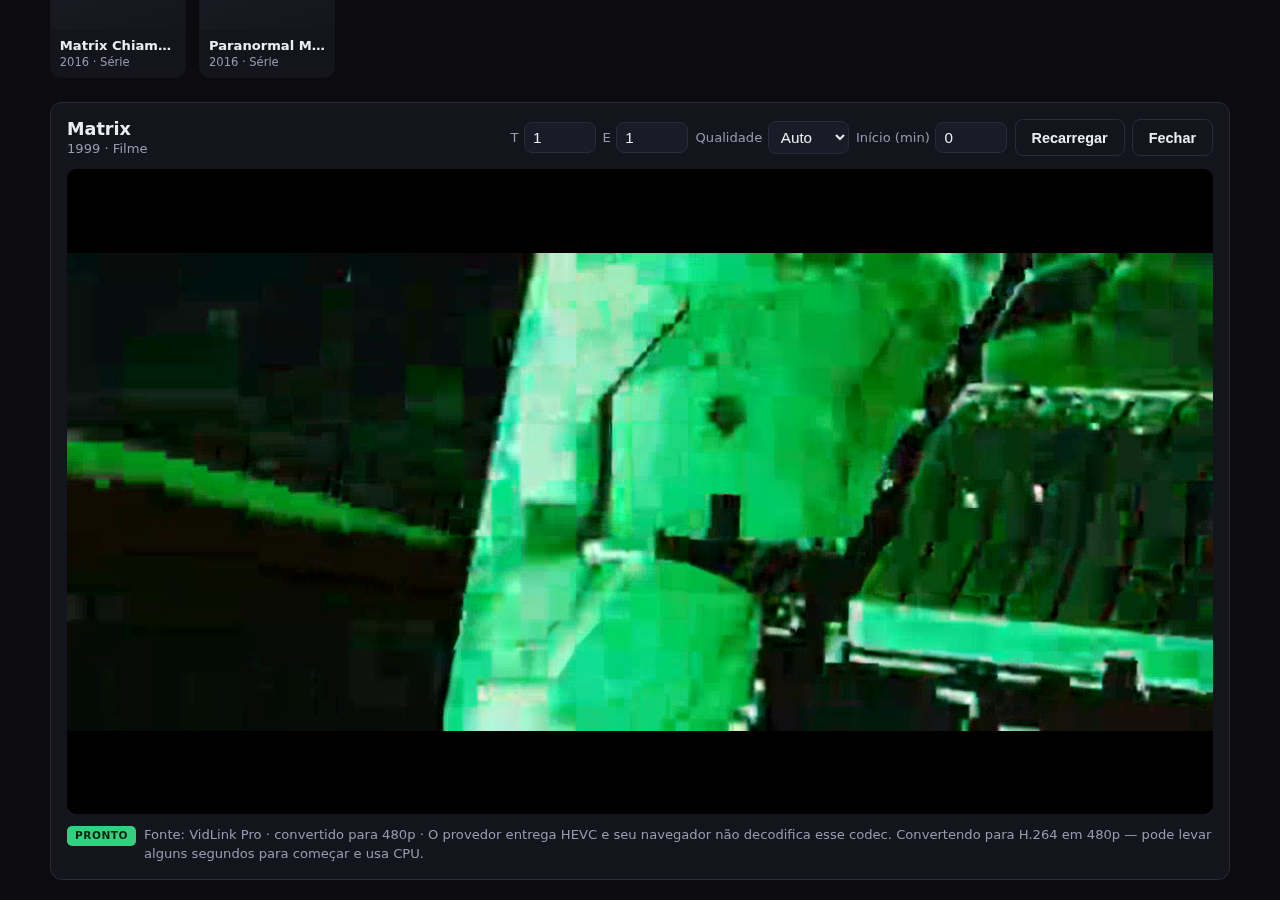
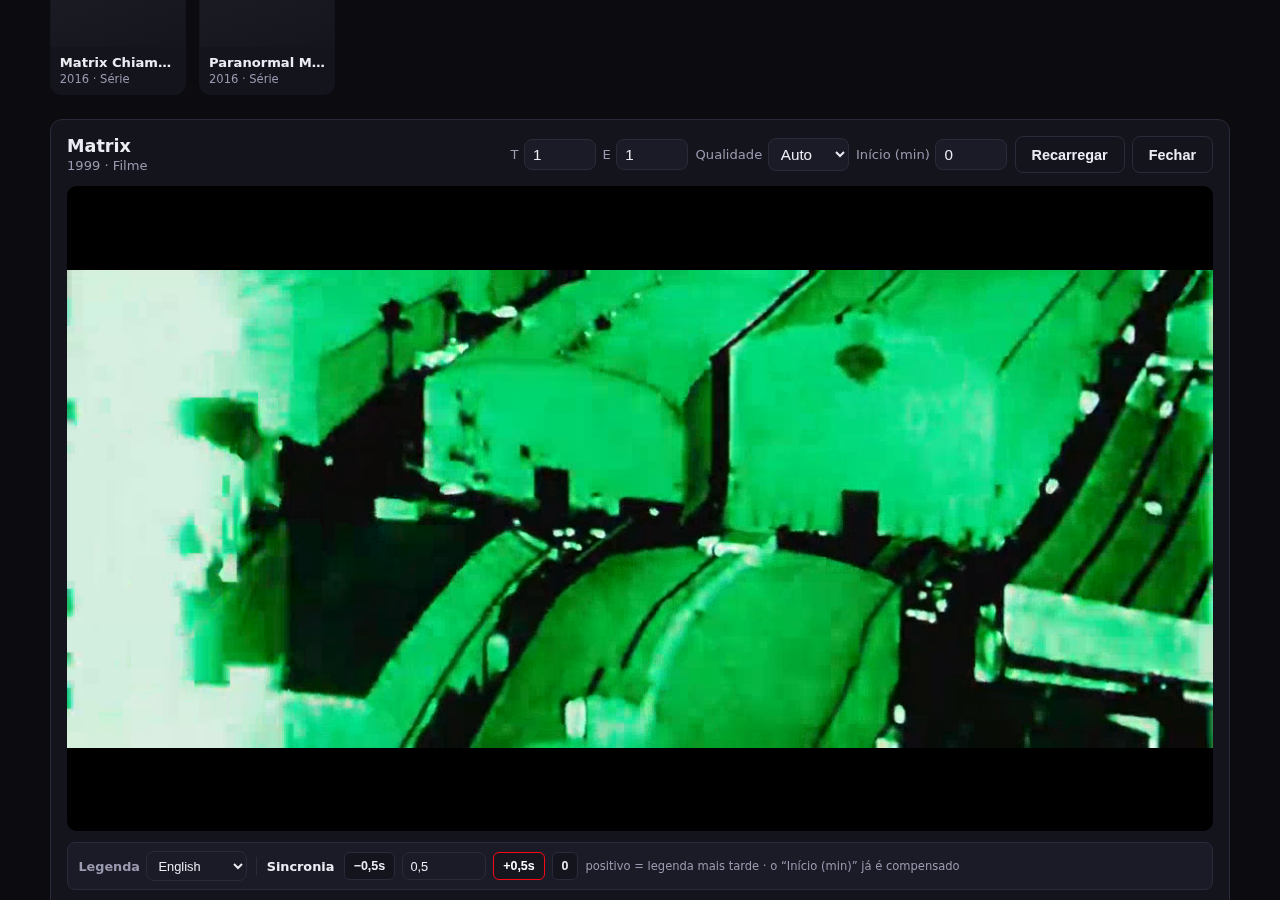
Adiciona suporte a seleção de idioma de legendas e melhorias na sincronia

diff --git a/public/index.html b/public/index.html
@@ -138,6 +138,9 @@
   }
   .sub-bar[hidden]{display:none}
   .sub-bar .sub-title{font-weight:700;color:var(--text);margin-right:.15rem}
+  .sub-bar .sub-lang{display:flex;align-items:center;gap:.35rem;color:var(--muted);font-weight:600}
+  .sub-bar .sub-lang select{padding:.35rem .5rem;font-size:.8rem;max-width:190px}
+  .sub-divider{width:1px;height:18px;background:var(--line);margin:0 .15rem}
   .sub-bar input[type="number"]{width:84px;padding:.35rem .45rem;font-size:.8rem}
   .step-btn{
     background:var(--panel);border:1px solid var(--line);color:var(--text);
@@ -210,7 +213,11 @@
     </div>
 
     <div id="subBar" class="sub-bar" hidden>
-      <span class="sub-title">Sincronia da legenda</span>
+      <label class="sub-lang">Legenda
+        <select id="subLangSelect" aria-label="Idioma da legenda"></select>
+      </label>
+      <span class="sub-divider"></span>
+      <span class="sub-title">Sincronia</span>
       <button id="subMinus" class="step-btn" type="button" title="Adiantar a legenda 0,5 s">−0,5s</button>
       <input id="subOffsetInput" type="number" step="0.5" min="-600" max="600" value="0"
              title="Atraso em segundos (positivo = legenda mais tarde)" aria-label="Atraso da legenda em segundos">
@@ -287,6 +294,9 @@
     pendingSeek: 0,
     subOffset: 0,
     subKey: null,
+    subLang: null,
+    langToken: 0,
+    applyingLang: false,
     captions: []
   };
 
@@ -536,11 +546,11 @@
     try { video.pause(); } catch (err) { /* ignore */ }
     video.removeAttribute('src');
     video.load();
+    state.captions = [];
     Array.prototype.slice.call(video.querySelectorAll('track')).forEach(function (track) {
       track.remove();
     });
     state.pendingSeek = 0;
-    state.captions = [];
     $('subBar').hidden = true;
   }
 
@@ -574,7 +584,21 @@
       'shift=' + encodeURIComponent(String(offset));
   }
 
-  function addCaptions(captions, mode) {
+  function loadSubLang(key) {
+    try {
+      return localStorage.getItem(key + '.lang');
+    } catch (err) {
+      return null;
+    }
+  }
+
+  function saveSubLang(key, value) {
+    try {
+      localStorage.setItem(key + '.lang', value);
+    } catch (err) { /* ignore */ }
+  }
+
+  function addCaptions(captions) {
     var video = $('nativePlayer');
 
     (captions || []).forEach(function (caption) {
@@ -584,38 +608,112 @@
       track.label = caption.label || 'Legenda';
       track.srclang = caption.srclang || 'und';
       track.src = subtitleUrl(caption.url, state.subOffset);
-      if (caption.default) track.default = true;
       video.appendChild(track);
     });
+  }
 
-    // Ao reconstruir, mantém a faixa que estava ativa (ou tudo desligado).
-    if (mode !== undefined) {
-      setTimeout(function () {
-        var tracks = video.textTracks;
-        for (var i = 0; i < tracks.length; i++) {
-          tracks[i].mode = mode !== 'off' && tracks[i].language === mode ? 'showing' : 'disabled';
-        }
-      }, 30);
+  function populateSubLang(captions) {
+    var select = $('subLangSelect');
+    if (!select) return;
+
+    var html = '<option value="off">Desligada</option>';
+    (captions || []).forEach(function (caption, index) {
+      html += '<option value="' + index + '">' +
+        escapeHtml(caption.label || ('Legenda ' + (index + 1))) + '</option>';
+    });
+    select.innerHTML = html;
+  }
+
+  function activeSubIndex() {
+    var video = $('nativePlayer');
+    for (var i = 0; i < video.textTracks.length; i++) {
+      if (video.textTracks[i].mode === 'showing') return i;
     }
+    return -1;
+  }
+
+  function applySubLangByIndex(index) {
+    var video = $('nativePlayer');
+    var tracks = video.textTracks;
+    var off = index === -1 || index === null || index === undefined;
+
+    state.applyingLang = true;
+
+    for (var i = 0; i < tracks.length; i++) {
+      tracks[i].mode = !off && i === index ? 'showing' : 'disabled';
+    }
+
+    var select = $('subLangSelect');
+    if (select) select.value = off ? 'off' : String(index);
+
+    state.subLang = off ? 'off' : (state.captions[index] ? state.captions[index].label : 'off');
+    if (state.subKey) saveSubLang(state.subKey, state.subLang);
+
+    // As tracks terminam de registrar de forma assíncrona; ignora os eventos
+    // de change disparados pela própria aplicação.
+    setTimeout(function () { state.applyingLang = false; }, 250);
+  }
+
+  function applySubLangSoon(index, delay) {
+    var token = ++state.langToken;
+    setTimeout(function () {
+      if (token !== state.langToken) return;
+      applySubLangByIndex(index);
+    }, delay || 120);
+  }
+
+  function applySavedSubLang(captions) {
+    var saved = state.subKey ? loadSubLang(state.subKey) : null;
+    var index = -1;
+
+    if (saved && saved !== 'off') {
+      for (var i = 0; i < captions.length; i++) {
+        if (captions[i].label === saved) { index = i; break; }
+      }
+    }
+
+    if (index === -1 && saved !== 'off') {
+      for (var j = 0; j < captions.length; j++) {
+        if (captions[j].default) { index = j; break; }
+      }
+      if (index === -1 && captions.length) index = 0;
+    }
+
+    var select = $('subLangSelect');
+    if (select) select.value = index === -1 ? 'off' : String(index);
+
+    applySubLangSoon(index, 150);
+  }
+
+  function syncSubLangFromTracks() {
+    if (!state.captions.length) return;
+    if (state.applyingLang) return;
+    if (!$('nativePlayer').querySelector('track')) return; // durante rebuild
+
+    var index = activeSubIndex();
+    var select = $('subLangSelect');
+    if (select) select.value = index === -1 ? 'off' : String(index);
+
+    state.subLang = index === -1 ? 'off' : (state.captions[index] ? state.captions[index].label : 'off');
+    if (state.subKey) saveSubLang(state.subKey, state.subLang);
   }
 
   function rebuildCaptions() {
-    var video = $('nativePlayer');
     if (!state.captions.length) return;
 
-    var active = null;
-    for (var i = 0; i < video.textTracks.length; i++) {
-      if (video.textTracks[i].mode === 'showing') {
-        active = video.textTracks[i].language;
-        break;
-      }
-    }
+    var select = $('subLangSelect');
+    var active = select && select.value !== 'off' ? Number(select.value) : -1;
+    var video = $('nativePlayer');
 
     Array.prototype.slice.call(video.querySelectorAll('track')).forEach(function (track) {
       track.remove();
     });
 
-    addCaptions(state.captions, active || 'off');
+    addCaptions(state.captions);
+    populateSubLang(state.captions);
+    if (select) select.value = active === -1 ? 'off' : String(active);
+
+    applySubLangSoon(active, 80);
   }
 
   function applySubOffset(value) {
@@ -744,6 +842,8 @@
         state.lastMode = data.mode;
         state.captions = Array.isArray(data.captions) ? data.captions : [];
         addCaptions(state.captions);
+        populateSubLang(state.captions);
+        applySavedSubLang(state.captions);
         $('subBar').hidden = state.captions.length === 0;
 
         var video = $('nativePlayer');
@@ -833,6 +933,10 @@
   $('reloadBtn').addEventListener('click', renderPlayer);
   $('closeBtn').addEventListener('click', closePlayer);
 
+  $('subLangSelect').addEventListener('change', function () {
+    applySubLangByIndex(this.value === 'off' ? -1 : Number(this.value));
+  });
+
   $('subMinus').addEventListener('click', function () { applySubOffset(state.subOffset - 0.5); });
   $('subPlus').addEventListener('click', function () { applySubOffset(state.subOffset + 0.5); });
   $('subReset').addEventListener('click', function () { applySubOffset(0); });
@@ -912,6 +1016,13 @@
 
     fail(messages[error.code] || 'Erro desconhecido ao reproduzir o vídeo.');
   });
+
+  // Mantém o seletor sincronizado quando o usuário usa o menu CC nativo.
+  if (video.textTracks.addEventListener) {
+    video.textTracks.addEventListener('change', syncSubLangFromTracks);
+  } else {
+    video.textTracks.onchange = syncSubLangFromTracks;
+  }
 
   $('overlayRetry').addEventListener('click', function () {
     if (state.selected) renderPlayer();

diff --git a/README.md b/README.md
@@ -116,9 +116,12 @@ docs/DEPLOY-RENDER.md  Guia do Render + Vercel (passo a passo)
 - **Automático:** ao usar o campo **Início (min)**, o backend desloca a legenda
   em `-start` segundos. Antes ela ficava exatamente o tempo do salto fora de
   sincronia (ex.: começar em 10 min deixava a legenda 600 s adiantada).
-- **Manual:** abaixo do player há a barra **Sincronia da legenda**
+- **Idioma:** a barra abaixo do player tem um seletor **Legenda** (Desligada /
+  Português / English / …), sincronizado com o menu CC nativo. A escolha é salva
+  por título no `localStorage`.
+- **Manual:** a mesma barra tem o ajuste de **Sincronia**
   (`−0,5s` / `+0,5s` / campo livre / `0`). Valores positivos atrasam a legenda.
-  O ajuste é salvo por título no `localStorage` e sobrevive a recarregar a página.
+  O ajuste também é salvo por título e sobrevive a recarregar a página.
 - O deslocamento é aplicado no servidor (`/api/subtitle?t=TOKEN&shift=1.5`), sem
   reiniciar o vídeo nem recarregar o stream.
 
